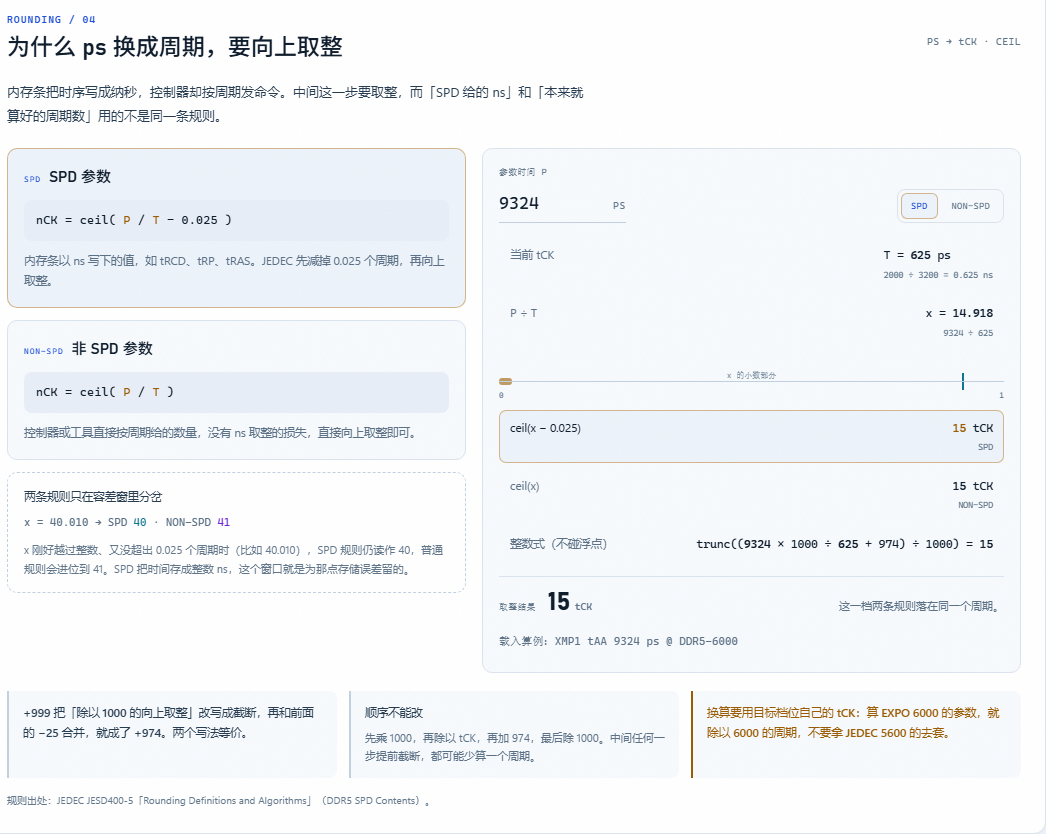
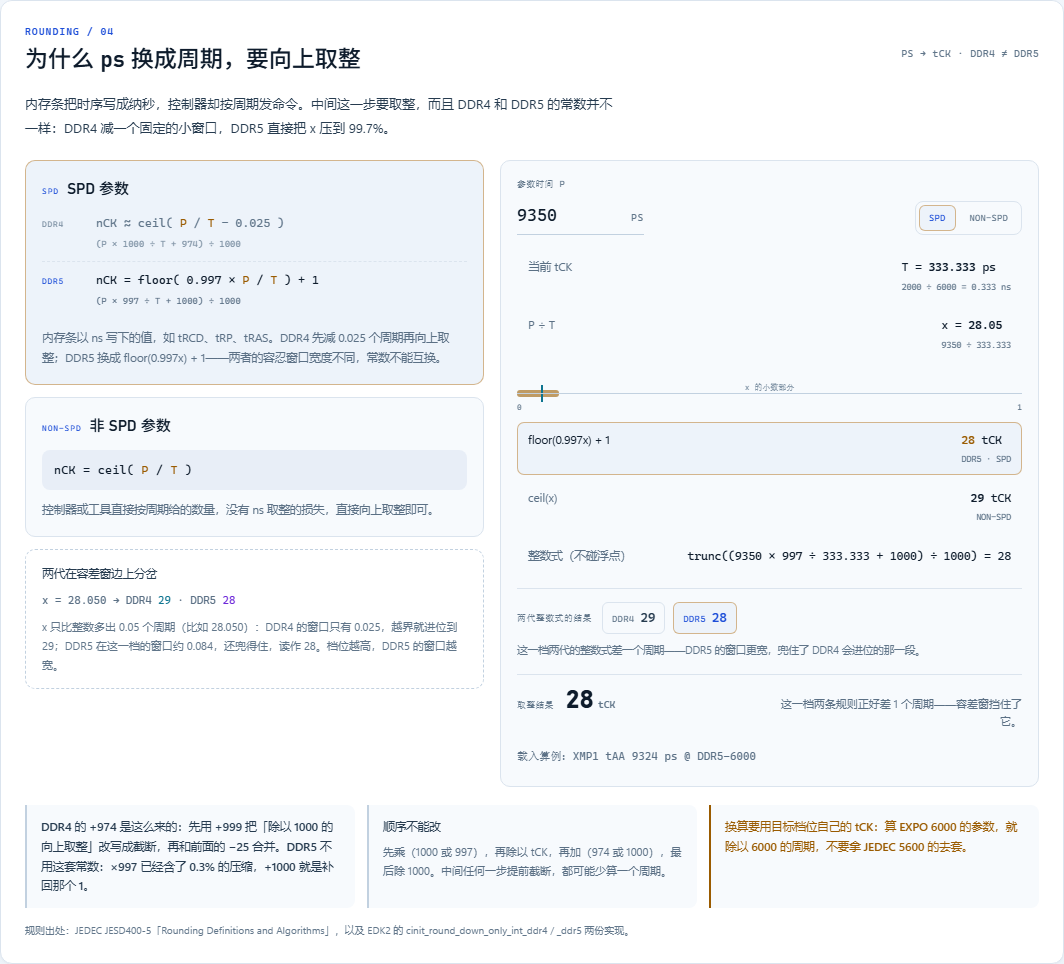
feat: split the ps -> tCK rounding panel by memory generation
DDR4 and DDR5 do not round with the same constant:

    ddr4: ((P * 1000) / T + 974) / 1000   == ceil(P/T - 0.025)
    ddr5: ((P * 997) / T + 1000) / 1000   == floor(0.997 * P/T) + 1

DDR4 keeps a flat 0.025-cycle window; DDR5's window scales with the cycle
count (about 0.084 cycles at tAA 28). The panel now shows both integer
forms, highlights the one the current speed bin uses, computes both
results side by side, and draws the tolerance band at its real width, so
x = 28.05 visibly reads 29 on DDR4 and 28 on DDR5.

Sources: JEDEC JESD400-5 "Rounding Definitions and Algorithms"; EDK2
cinit_round_down_only_int_ddr4 / _ddr5.

diff --git a/i18n.js b/i18n.js
@@ -111,9 +111,9 @@
       'calc.disclaimer': '教学模型：采用 DDR 双沿传输与理想突发窗口。未计入 PHY 训练余量、PCB 飞行时间、rank/bank 冲突、刷新调度平滑与命令总线协议开销。',
       'calc.docTitle': 'ns ↔ tCK 时序换算器 | tCK Atlas',
       'calc.roundTitle': '为什么 ps 换成周期，要向上取整',
-      'calc.roundIntro': '内存条把时序写成纳秒，控制器却按周期发命令。中间这一步要取整，而「SPD 给的 ns」和「本来就算好的周期数」用的不是同一条规则。',
+      'calc.roundIntro': '内存条把时序写成纳秒，控制器却按周期发命令。中间这一步要取整，而且 DDR4 和 DDR5 的常数并不一样：DDR4 减一个固定的小窗口，DDR5 直接把 x 压到 99.7%。',
       'calc.roundSpdName': 'SPD 参数',
-      'calc.roundSpdDesc': '内存条以 ns 写下的值，如 tRCD、tRP、tRAS。JEDEC 先减掉 0.025 个周期，再向上取整。',
+      'calc.roundSpdDesc': '内存条以 ns 写下的值，如 tRCD、tRP、tRAS。DDR4 先减 0.025 个周期再向上取整；DDR5 换成 floor(0.997x) + 1——两者的容忍窗口宽度不同，常数不能互换。',
       'calc.roundNsName': '非 SPD 参数',
       'calc.roundNsDesc': '控制器或工具直接按周期给的数量，没有 ns 取整的损失，直接向上取整即可。',
       'calc.roundPs': '参数时间 P',
@@ -122,18 +122,21 @@
       'calc.roundX': 'P ÷ T',
       'calc.roundResult': '取整结果',
       'calc.roundIntLabel': '整数式（不碰浮点）',
-      'calc.roundIntNote': '+999 把「除以 1000 的向上取整」改写成截断，再和前面的 −25 合并，就成了 +974。两个写法等价。',
+      'calc.roundIntNote': 'DDR4 的 +974 是这么来的：先用 +999 把「除以 1000 的向上取整」改写成截断，再和前面的 −25 合并。DDR5 不用这套常数：×997 已经含了 0.3% 的压缩，+1000 就是补回那个 1。',
       'calc.roundOrderTitle': '顺序不能改',
-      'calc.roundOrder': '先乘 1000，再除以 tCK，再加 974，最后除 1000。中间任何一步提前截断，都可能少算一个周期。',
+      'calc.roundOrder': '先乘（1000 或 997），再除以 tCK，再加（974 或 1000），最后除 1000。中间任何一步提前截断，都可能少算一个周期。',
       'calc.roundTckWarn': '换算要用目标档位自己的 tCK：算 EXPO 6000 的参数，就除以 6000 的周期，不要拿 JEDEC 5600 的去套。',
-      'calc.roundRef': '规则出处：JEDEC JESD400-5「Rounding Definitions and Algorithms」（DDR5 SPD Contents）。',
+      'calc.roundRef': '规则出处：JEDEC JESD400-5「Rounding Definitions and Algorithms」，以及 EDK2 的 cinit_round_down_only_int_ddr4 / _ddr5 两份实现。',
       'calc.roundPreset': '载入算例：XMP1 tAA 9324 ps @ DDR5-6000',
       'calc.roundFraction': 'x 的小数部分',
-      'calc.roundTolerance': '0.025 容差窗',
+      'calc.roundTolerance': '容差窗（两代宽度不同）',
       'calc.roundSame': '这一档两条规则落在同一个周期。',
       'calc.roundDiff': '这一档两条规则正好差 1 个周期——容差窗挡住了它。',
-      'calc.roundGapTitle': '两条规则只在容差窗里分岔',
-      'calc.roundGapNote': 'x 刚好越过整数、又没超出 0.025 个周期时（比如 40.010），SPD 规则仍读作 40，普通规则会进位到 41。SPD 把时间存成整数 ns，这个窗口就是为那点存储误差留的。',
+      'calc.roundCmpTitle': '两代整数式的结果',
+      'calc.roundDriftSame': '这一档两代的整数式落在同一个周期。',
+      'calc.roundDriftDiff': '这一档两代的整数式差一个周期——DDR5 的窗口更宽，兜住了 DDR4 会进位的那一段。',
+      'calc.roundGapTitle': '两代在容差窗边上分岔',
+      'calc.roundGapNote': 'x 只比整数多出 0.05 个周期（比如 28.050）：DDR4 的窗口只有 0.025，越界就进位到 29；DDR5 在这一档的窗口约 0.084，还兜得住，读作 28。档位越高，DDR5 的窗口越宽。',
       'nav.lab': '配置档',
       'lab.docTitle': '配置档实验室 · DDR4 / DDR5 | tCK Atlas',
       'lab.badge': '教学模型',
@@ -281,9 +284,9 @@
       'calc.disclaimer': 'Teaching model: DDR dual-edge transfer with an ideal burst window. It excludes PHY training margin, PCB flight time, rank/bank conflicts, refresh scheduling smoothing and command-bus protocol overhead.',
       'calc.docTitle': 'ns ↔ tCK timing calculator | tCK Atlas',
       'calc.roundTitle': 'Why picoseconds become cycles by rounding up',
-      'calc.roundIntro': 'The module states its timings in nanoseconds, but the controller issues commands in cycles. That hop has to round — and a value the SPD gave in ns does not round the same way as a quantity that was already a cycle count.',
+      'calc.roundIntro': 'The module states its timings in nanoseconds, but the controller issues commands in cycles. That hop has to round — and DDR4 and DDR5 do not share a constant: DDR4 shaves a flat window, DDR5 scales x down to 99.7%.',
       'calc.roundSpdName': 'SPD parameter',
-      'calc.roundSpdDesc': 'A value the module wrote in ns, such as tRCD, tRP or tRAS. JEDEC subtracts 0.025 cycles first, then rounds up.',
+      'calc.roundSpdDesc': 'A value the module wrote in ns, such as tRCD, tRP or tRAS. DDR4 subtracts 0.025 cycles, then rounds up; DDR5 uses floor(0.997x) + 1. The windows differ, so the constants are not interchangeable.',
       'calc.roundNsName': 'Non-SPD parameter',
       'calc.roundNsDesc': 'A quantity the controller or a tool already counts in cycles. Nothing was lost to an ns conversion, so it just rounds up.',
       'calc.roundPs': 'Parameter time P',
@@ -292,18 +295,21 @@
       'calc.roundX': 'P ÷ T',
       'calc.roundResult': 'Rounded',
       'calc.roundIntLabel': 'Integer form (no floats)',
-      'calc.roundIntNote': '+999 rewrites “ceil after dividing by 1000” as a truncate; merged with the earlier −25 it becomes +974. The two forms are the same expression.',
+      'calc.roundIntNote': 'DDR4 gets +974 by rewriting “ceil after dividing by 1000” as a truncate (+999) and merging it with the earlier −25. DDR5 does not: ×997 already carries the 0.3% shrink, and +1000 puts the one back.',
       'calc.roundOrderTitle': 'Never reorder',
-      'calc.roundOrder': 'Multiply by 1000, divide by tCK, add 974, then divide by 1000. Truncate early anywhere in that chain and you can lose a whole cycle.',
+      'calc.roundOrder': 'Multiply by 1000 (or 997), divide by tCK, add 974 (or 1000), then divide by 1000. Truncate early anywhere in that chain and you can lose a whole cycle.',
       'calc.roundTckWarn': 'Round against the period of the profile you are converting: an EXPO 6000 profile is divided by the 6000 period, not by the JEDEC 5600 one.',
-      'calc.roundRef': 'Source: JEDEC JESD400-5, “Rounding Definitions and Algorithms” (DDR5 SPD contents).',
+      'calc.roundRef': 'Sources: JEDEC JESD400-5, “Rounding Definitions and Algorithms”, and EDK2’s cinit_round_down_only_int_ddr4 / _ddr5.',
       'calc.roundPreset': 'Load the example: XMP1 tAA 9324 ps @ DDR5-6000',
       'calc.roundFraction': 'fraction of x',
-      'calc.roundTolerance': '0.025 window',
+      'calc.roundTolerance': 'tolerance window (per generation)',
       'calc.roundSame': 'At this speed bin both rules land on the same cycle.',
       'calc.roundDiff': 'At this speed bin the two rules differ by one cycle — the tolerance window absorbs it.',
-      'calc.roundGapTitle': 'The two rules split only inside the window',
-      'calc.roundGapNote': 'When x clears an integer by no more than 0.025 cycles (40.010, say), the SPD rule still reads 40 while the plain rule carries to 41. The SPD stores whole nanoseconds, and the window is there to absorb exactly that loss.',
+      'calc.roundCmpTitle': 'Integer form, both generations',
+      'calc.roundDriftSame': 'At this bin the two integer forms land on the same cycle.',
+      'calc.roundDriftDiff': 'At this bin the two integer forms differ by one cycle — DDR5’s wider window absorbs what DDR4 carries.',
+      'calc.roundGapTitle': 'The generations split at the window edge',
+      'calc.roundGapNote': 'When x clears an integer by 0.05 cycles (28.050, say), DDR4’s flat 0.025 window is already crossed and carries to 29, while DDR5’s window at this bin is about 0.084 and still absorbs it, reading 28. The higher the bin, the wider DDR5’s window gets.',
       'nav.lab': 'Profiles',
       'lab.docTitle': 'Profile Lab · DDR4 / DDR5 | tCK Atlas',
       'lab.badge': 'Teaching model',

diff --git a/app.js b/app.js
@@ -1740,7 +1740,7 @@ ${rows}
         <section class="panel rounding-panel">
           <div class="panel-head">
             <div><span class="section-index">ROUNDING / 04</span><h3>${uiText('calc.roundTitle')}</h3></div>
-            <span class="panel-head__note">PS → tCK · CEIL</span>
+            <span class="panel-head__note">PS → tCK · DDR4 ≠ DDR5</span>
           </div>
           <p class="rounding-lead">${uiText('calc.roundIntro')}</p>
 
@@ -1748,7 +1748,16 @@ ${rows}
             <div class="rounding-rules">
               <article class="round-card is-active" data-round-card="spd">
                 <header><span>SPD</span><b>${uiText('calc.roundSpdName')}</b></header>
-                <code>nCK = ceil( <i>P</i> / <i>T</i> − 0.025 )</code>
+                <div class="round-variant" data-round-gen="ddr4">
+                  <span>DDR4</span>
+                  <code>nCK ≈ ceil( <i>P</i> / <i>T</i> − 0.025 )</code>
+                  <small>(P × 1000 ÷ T + 974) ÷ 1000</small>
+                </div>
+                <div class="round-variant" data-round-gen="ddr5">
+                  <span>DDR5</span>
+                  <code>nCK = floor( 0.997 × <i>P</i> / <i>T</i> ) + 1</code>
+                  <small>(P × 997 ÷ T + 1000) ÷ 1000</small>
+                </div>
                 <p>${uiText('calc.roundSpdDesc')}</p>
               </article>
               <article class="round-card" data-round-card="nonspd">
@@ -1758,7 +1767,7 @@ ${rows}
               </article>
               <div class="round-gap">
                 <b>${uiText('calc.roundGapTitle')}</b>
-                <code>x = 40.010 → SPD <i>40</i> · NON-SPD <i>41</i></code>
+                <code>x = 28.050 → DDR4 <i>29</i> · DDR5 <i>28</i></code>
                 <span>${uiText('calc.roundGapNote')}</span>
               </div>
             </div>
@@ -1788,15 +1797,15 @@ ${rows}
                 </div>
                 <div class="round-ruler" title="${esc(uiText('calc.roundTolerance'))}">
                   <span class="round-ruler__caption">${uiText('calc.roundFraction')}</span>
-                  <span class="round-ruler__band"></span>
+                  <span class="round-ruler__band" data-round="band"></span>
                   <i class="round-ruler__mark" data-round-marker></i>
                   <span class="round-ruler__tick round-ruler__tick--start">0</span>
                   <span class="round-ruler__tick round-ruler__tick--end">1</span>
                 </div>
                 <div class="round-step round-step--target is-active" data-round-row="spd">
-                  <span>ceil(x − 0.025)</span>
+                  <span data-round="spdLabel">ceil(x − 0.025)</span>
                   <code><b data-round="spd">28</b> tCK</code>
-                  <small>SPD</small>
+                  <small data-round="genLabel">DDR5 · SPD</small>
                 </div>
                 <div class="round-step round-step--target" data-round-row="nonspd">
                   <span>ceil(x)</span>
@@ -1805,8 +1814,15 @@ ${rows}
                 </div>
                 <div class="round-step">
                   <span>${uiText('calc.roundIntLabel')}</span>
-                  <code>trunc((<b data-round="intP">9324</b> × 1000 ÷ <b data-round="intT">333.333</b> + 974) ÷ 1000) = <b data-round="int">28</b></code>
+                  <code data-round="intExpr">trunc((9324 × 997 ÷ 333.333 + 1000) ÷ 1000) = 28</code>
                 </div>
+              </div>
+
+              <div class="round-compare">
+                <span class="round-compare__title">${uiText('calc.roundCmpTitle')}</span>
+                <span class="round-compare__pill" data-round-gen="ddr4">DDR4 <b data-round="ddr4">28</b></span>
+                <span class="round-compare__pill" data-round-gen="ddr5">DDR5 <b data-round="ddr5">28</b></span>
+                <p data-round="drift"></p>
               </div>
 
               <div class="round-result">
@@ -1914,20 +1930,35 @@ ${rows}
     const tckPs = values.tck * 1000;
     const ps = Math.max(0, Number(calc.roundPs) || 0);
     const x = tckPs > 0 ? ps / tckPs : 0;
+    const ddr4 = Math.trunc((Math.trunc((ps * 1000) / tckPs) + 974) / 1000);
+    const ddr5 = Math.trunc((Math.trunc((ps * 997) / tckPs) + 1000) / 1000);
+    const generation = values.rate >= 4800 ? 'ddr5' : 'ddr4';
     return {
       values,
       tckPs,
       ps,
       x,
-      spd: Math.ceil(x - 0.025),
-      nonspd: Math.ceil(x),
-      integer: Math.trunc(Math.trunc((ps * 1000) / tckPs + 974) / 1000)
+      ddr4,
+      ddr5,
+      generation,
+      spd: generation === 'ddr5' ? ddr5 : ddr4,
+      nonspd: Math.ceil(x)
     };
+  }
+
+  function roundWindow(x, generation) {
+    let width = 0.025;
+    if (generation === 'ddr5') {
+      const scaled = 0.997 * Math.floor(x);
+      width = (1 - (scaled - Math.floor(scaled))) / 0.997;
+    }
+    return Math.min(0.5, Math.max(0.01, width));
   }
 
   function updateRoundUI() {
     if (!calculatorView.querySelector('[data-round="x"]')) return;
     const data = roundNumbers();
+    const ddr5 = data.generation === 'ddr5';
     const set = (key, text) => {
       $$(`[data-round="${key}"]`, calculatorView).forEach((node) => { node.textContent = text; });
     };
@@ -1935,17 +1966,31 @@ ${rows}
     set('tckNote', `2000 ÷ ${fmt(data.values.rate, 0)} = ${fmt(data.values.tck, 3)} ns`);
     set('x', fmt(data.x, 3));
     set('xNote', `${fmt(data.ps, 0)} ÷ ${fmt(data.tckPs, 3)}`);
+    set('spdLabel', ddr5 ? 'floor(0.997x) + 1' : 'ceil(x − 0.025)');
+    set('genLabel', `${ddr5 ? 'DDR5' : 'DDR4'} · SPD`);
     set('spd', String(data.spd));
     set('nonspd', String(data.nonspd));
-    set('int', String(data.integer));
-    set('intP', fmt(data.ps, 0));
-    set('intT', fmt(data.tckPs, 3));
+    set('ddr4', String(data.ddr4));
+    set('ddr5', String(data.ddr5));
+    set(
+      'intExpr',
+      ddr5
+        ? `trunc((${fmt(data.ps, 0)} × 997 ÷ ${fmt(data.tckPs, 3)} + 1000) ÷ 1000) = ${data.ddr5}`
+        : `trunc((${fmt(data.ps, 0)} × 1000 ÷ ${fmt(data.tckPs, 3)} + 974) ÷ 1000) = ${data.ddr4}`
+    );
+    set('drift', data.ddr4 === data.ddr5 ? uiText('calc.roundDriftSame') : uiText('calc.roundDriftDiff'));
     set('result', String(calc.roundKind === 'nonspd' ? data.nonspd : data.spd));
     set('verdict', data.spd === data.nonspd ? uiText('calc.roundSame') : uiText('calc.roundDiff'));
 
     const frac = Math.min(1, Math.max(0, data.x - Math.floor(data.x)));
     $$('[data-round-marker]', calculatorView).forEach((node) => {
       node.style.left = `${(frac * 100).toFixed(2)}%`;
+    });
+    $$('[data-round="band"]', calculatorView).forEach((node) => {
+      node.style.width = `${(roundWindow(data.x, data.generation) * 100).toFixed(1)}%`;
+    });
+    $$('[data-round-gen]', calculatorView).forEach((node) => {
+      node.classList.toggle('is-active', node.dataset.roundGen === data.generation);
     });
     $$('[data-round-row]', calculatorView).forEach((node) => {
       node.classList.toggle('is-active', node.dataset.roundRow === calc.roundKind);

diff --git a/styles.css b/styles.css
@@ -4534,6 +4534,114 @@ svg {
   line-height: 1.75;
 }
 
+.round-variant {
+  display: grid;
+  grid-template-columns: 44px minmax(0, 1fr);
+  align-items: baseline;
+  gap: 3px 10px;
+  padding: 9px 0;
+  border-top: 1px dashed var(--line);
+}
+
+.round-variant:first-of-type {
+  margin-top: 2px;
+  padding-top: 2px;
+  border-top: 0;
+}
+
+.round-variant > span {
+  color: var(--ghost);
+  font-family: var(--font-mono);
+  font-size: 8px;
+  letter-spacing: 0.1em;
+  transition: color 0.2s var(--ease);
+}
+
+.round-variant code {
+  padding: 0;
+  background: none;
+  color: var(--faint);
+  font-size: 11.5px;
+  transition: color 0.2s var(--ease);
+}
+
+.round-variant small {
+  grid-column: 2;
+  color: var(--ghost);
+  font-family: var(--font-mono);
+  font-size: 9px;
+  letter-spacing: 0.01em;
+  transition: color 0.2s var(--ease);
+}
+
+.round-variant.is-active > span {
+  color: var(--action);
+}
+
+.round-variant.is-active code {
+  color: var(--ink);
+}
+
+.round-variant.is-active small {
+  color: var(--muted);
+}
+
+.round-compare {
+  display: flex;
+  flex-wrap: wrap;
+  align-items: center;
+  gap: 7px 8px;
+  padding-top: 13px;
+  border-top: 1px solid var(--line);
+}
+
+.round-compare__title {
+  margin-right: 2px;
+  color: var(--faint);
+  font-family: var(--font-mono);
+  font-size: 8.5px;
+  letter-spacing: 0.1em;
+}
+
+.round-compare__pill {
+  display: inline-flex;
+  align-items: baseline;
+  gap: 6px;
+  padding: 4px 9px;
+  border: 1px solid var(--line);
+  border-radius: 6px;
+  color: var(--faint);
+  font-family: var(--font-mono);
+  font-size: 8.5px;
+  letter-spacing: 0.08em;
+  transition: border-color 0.2s var(--ease), color 0.2s var(--ease), background 0.2s var(--ease);
+}
+
+.round-compare__pill b {
+  color: var(--ink-soft);
+  font-size: 12.5px;
+  font-weight: 500;
+  letter-spacing: 0;
+}
+
+.round-compare__pill.is-active {
+  border-color: var(--line-hot);
+  background: var(--surface-3);
+  color: var(--action);
+}
+
+.round-compare__pill.is-active b {
+  color: var(--action);
+}
+
+.round-compare p {
+  flex-basis: 100%;
+  margin: 1px 0 0;
+  color: var(--faint);
+  font-size: 10.5px;
+  line-height: 1.7;
+}
+
 .rounding-work {
   display: flex;
   flex-direction: column;

diff --git a/README.md b/README.md
@@ -18,7 +18,7 @@
 - 16 common DDR4 / DDR5 timing parameters
 - 3 views: the parameter atlas, a full read-write sequence, and a cycle calculator
 - A profile lab: one sample module, several timing plans, and a waveform that rebuilds from them
-- A rounding panel: ps → cycles, the 0.025 SPD tolerance window, and the integer form
+- A rounding panel: ps → cycles, the DDR4 vs DDR5 constants, the integer forms and the tolerance window
 - Suffixed timing families (`tRFC1/2/sb`, `tRRD_L/S`, `tCCD_L/S/WR`, `tWTR_L/S`) compared scope by scope
 - Chinese / English interface with a header switch, remembered across visits
 - Light / dark themes that follow the system and remember your choice
@@ -61,7 +61,7 @@ Each parameter page contains an engineering definition and "how to read", an int
 
 Presets only change the data rate; fill the cycle parameters from your device's datasheet. Bandwidth here is a single-channel theoretical figure and excludes ranks, channels, protocol efficiency and controller overhead.
 
-**Rounding.** A fourth panel shows the step those numbers quietly take. A delay the SPD stored in nanoseconds converts as `nCK = ceil(P / T − 0.025)`; a quantity the controller already counts in cycles converts as plain `ceil(P / T)`. Both have the same integer form, `trunc((P × 1000 / T + 974) / 1000)` — `+999` turns the ÷1000 ceiling into a truncation, and `−25 + 999` collapses into `+974`. Type any P, switch the rule, and the panel redoes the arithmetic against the current speed bin; the 0.025 tolerance window is drawn on a one-cycle ruler, so you can see the narrow band where the two rules disagree by one cycle. It also warns about the two real mistakes: reordering the integer chain, and rounding an EXPO / XMP profile against the JEDEC period instead of its own.
+**Rounding.** A fourth panel shows the step those numbers quietly take — and it is not one rule, because DDR4 and DDR5 round with different constants. DDR4 uses `trunc((P × 1000 / T + 974) / 1000)`, which is `ceil(P / T − 0.025)`: a flat 0.025-cycle window. DDR5 uses `trunc((P × 997 / T + 1000) / 1000)`, exactly `floor(0.997 × P/T) + 1`: a window that grows with the cycle count (about 0.084 cycles at tAA 28, 0.12 at 40). A quantity the controller already counts in cycles skips both and just uses `ceil(P / T)`. Type any P, switch the rule, and the panel redoes the arithmetic against the current speed bin, showing both generations side by side; the tolerance window is drawn to scale on a one-cycle ruler, so the flat DDR4 band and the wider DDR5 band are visibly different. `x = 28.05` is the case that splits them: DDR4 reads 29, DDR5 reads 28. It also warns about the two real mistakes: reordering the integer chain, and rounding an EXPO / XMP profile against the JEDEC period instead of its own.
 
 ![ps → tCK 取整](docs/rounding.png)
 
@@ -198,7 +198,7 @@ Modern browsers: `color-mix()`, `prefers-color-scheme`, `100dvh`, SVG patterns a
 - 16 个 DDR4 / DDR5 常用时序参数
 - 3 个视图：参数图谱、完整读取时序、周期换算器
 - 配置档实验室：一根示例内存条、几套档位，以及由这些值重建的波形
-- 取整面板：ps → 周期、SPD 的 0.025 容差窗与整数式写法
+- 取整面板：ps → 周期、DDR4 与 DDR5 的两套常数、整数式与容差窗
 - 带后缀的时序族（`tRFC1/2/sb`、`tRRD_L/S`、`tCCD_L/S/WR`、`tWTR_L/S`）按作用域对照讲解
 - 中文 / 英文双语界面，顶栏切换，选择会被记住
 - 亮色 / 暗色双主题，跟随系统并记住手动选择
@@ -243,7 +243,7 @@ python -m http.server 8080
 
 速度档位切换只改变数据率；其余周期参数请按当前器件的手册填。这里的带宽是单通道理论值，不包含 rank、通道数、协议效率或控制器开销。
 
-**取整。** 第四块面板讲这一步：SPD 以 ns 写下的值按 `nCK = ceil(P / T − 0.025)` 换算，本来就算成周期的量按 `ceil(P / T)`；两者等价于同一个整数式 `trunc((P × 1000 / T + 974) / 1000)`——`+999` 把「除以 1000 的向上取整」改成截断，再和 `−25 + 999` 合并就成了 `+974`。填任意 P、切换规则，面板会按当前速度档重算一遍；下面那把「一个周期」的尺子画出 0.025 的容差窗，能直接看到两条规则只在窗内相差一个周期。面板也点出两个真会出错的坑：改动整数式的运算顺序，以及拿 JEDEC 的周期去套 EXPO / XMP 档的参数。
+**取整。** 第四块面板讲这一步——而且它不是一条规则：DDR4 与 DDR5 的常数不一样。DDR4 用 `trunc((P × 1000 / T + 974) / 1000)`，等于 `ceil(P / T − 0.025)`，是一个固定 0.025 个周期的窗口；DDR5 用 `trunc((P × 997 / T + 1000) / 1000)`，精确等于 `floor(0.997 × P/T) + 1`，窗口随周期数变宽（tAA 28 时约 0.084，40 时约 0.12）。本来就算成周期的量两条都不走，直接 `ceil(P / T)`。填任意 P、切换规则，面板会按当前速度档重算，并把两代的结果并排列出；容差窗按真实比例画在「一个周期」的尺子上，DDR4 的窄带和 DDR5 的宽带肉眼可分。`x = 28.05` 就是两代分岔的那个点：DDR4 读 29、DDR5 读 28。面板也点出两个真会出错的坑：改动整数式的运算顺序，以及拿 JEDEC 的周期去套 EXPO / XMP 档的参数。
 
 ![ps → tCK 取整](docs/rounding.png)
 
